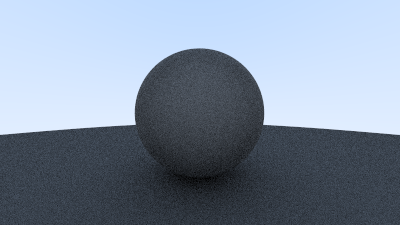
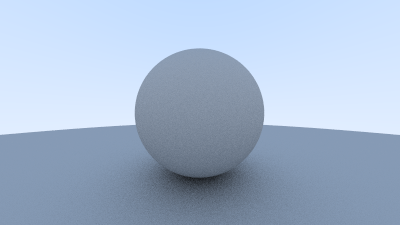
8.4 Fix shadow acne Bumping the min_t of the ray to very slightly above zero cures shadow acne, also brightens the whole thing, also makes it much faster, presumably as it reduces recursion.

diff --git a/main.cpp b/main.cpp
@@ -13,7 +13,7 @@ color ray_color(const ray& r, const hittable& world, int depth)
 	if(depth <= 0)
 		return color(0,0,0);
 
-	if (world.hit(r, 0, infinity, rec))
+	if (world.hit(r, 0.001, infinity, rec))
 	{
 		const point3 target = rec.p + rec.normal + random_in_unit_sphere();
 		return 0.5 * ray_color(ray(rec.p, target - rec.p), world, depth-1);
